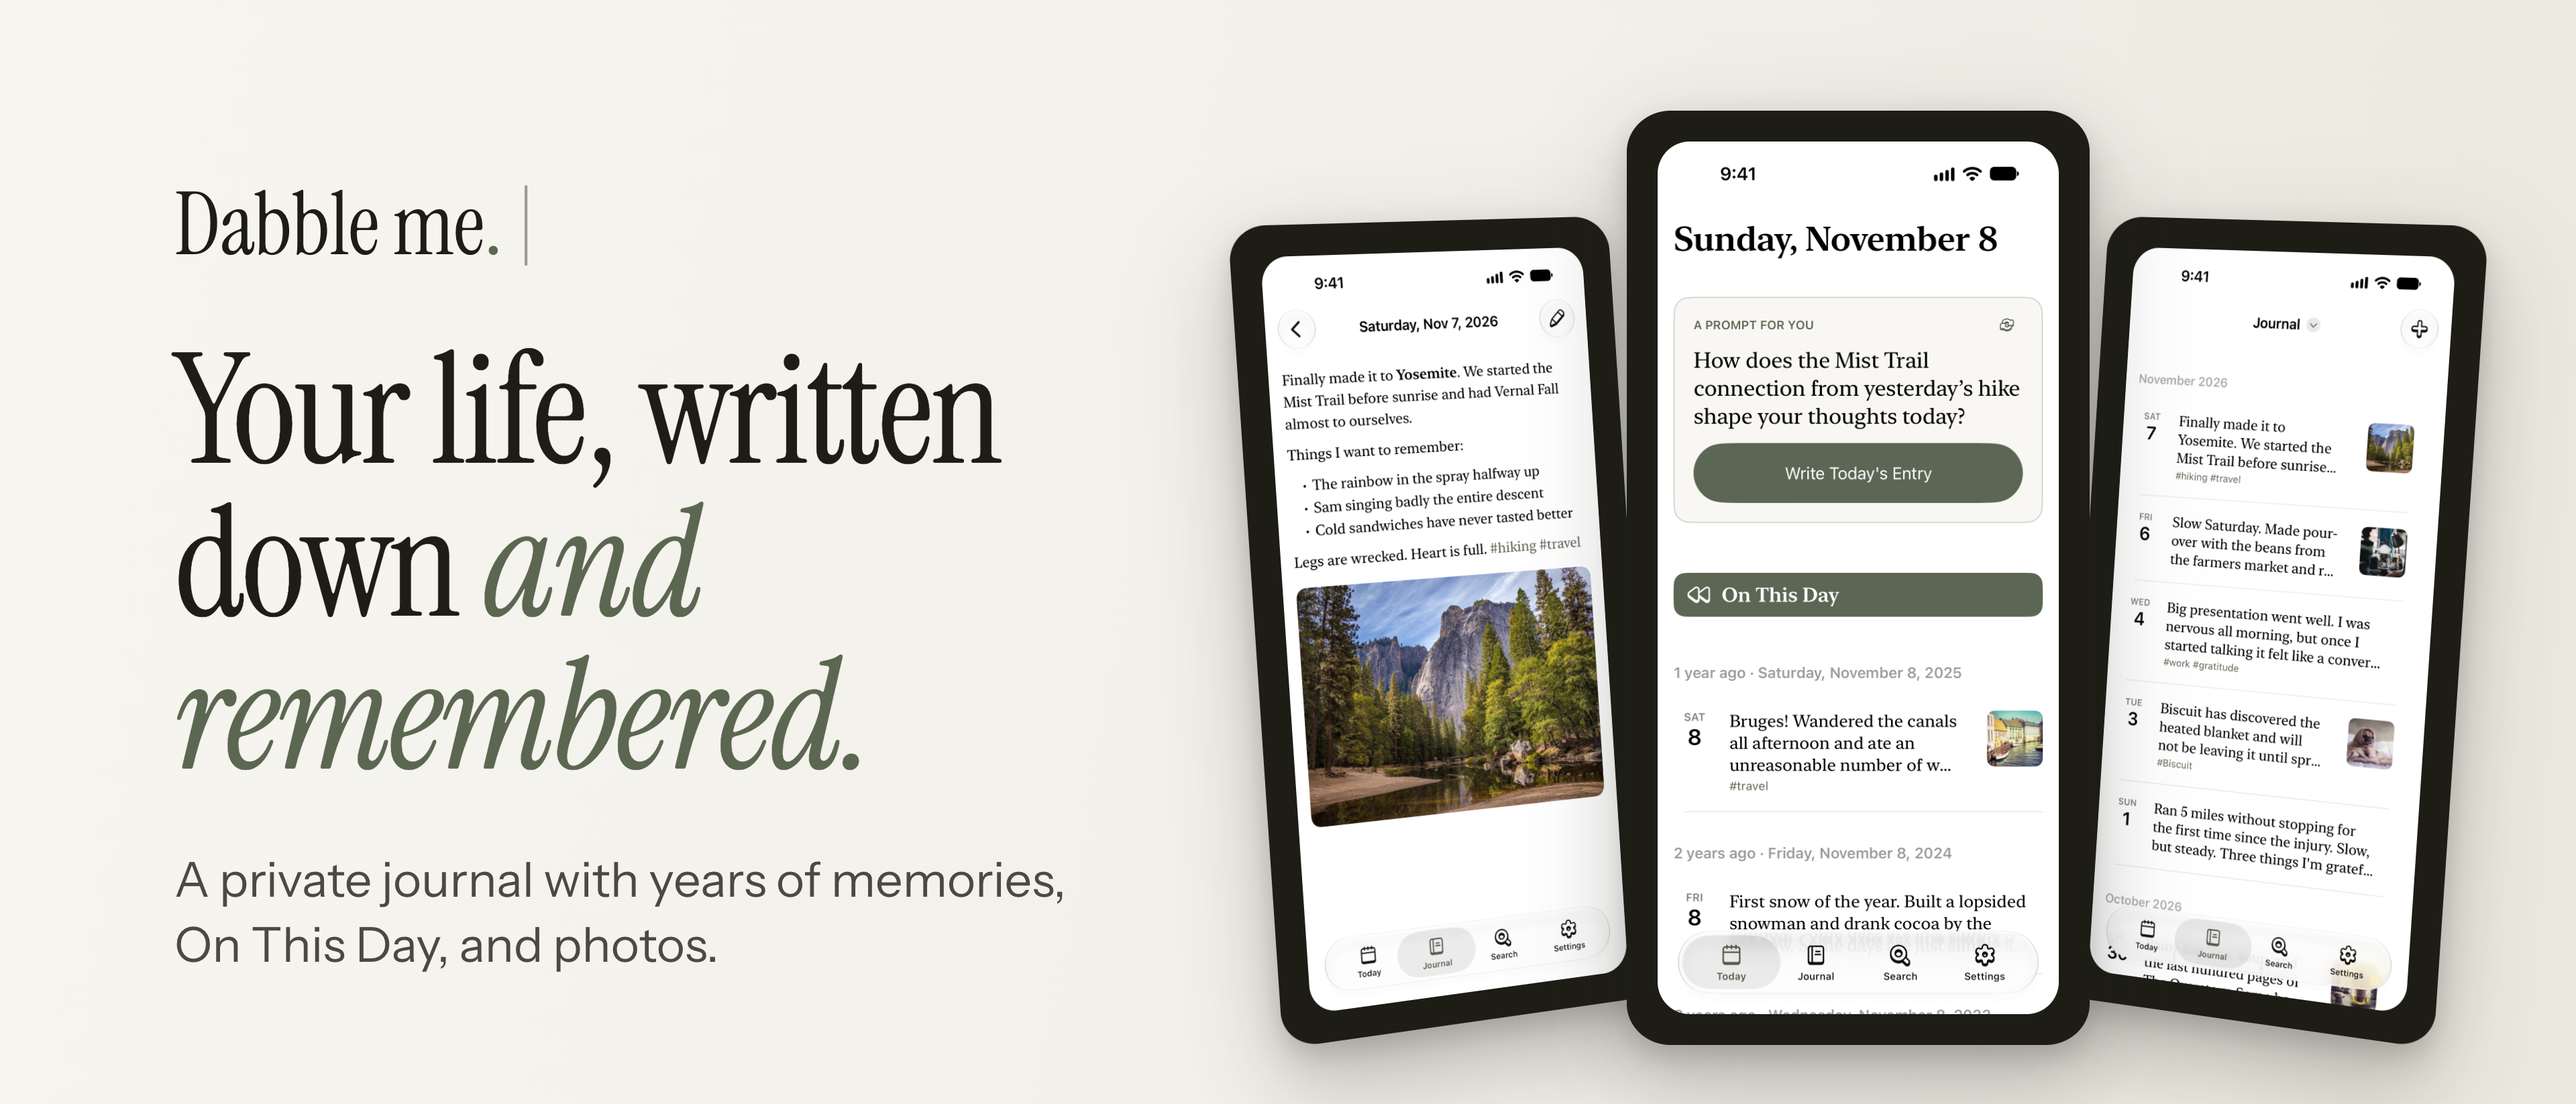
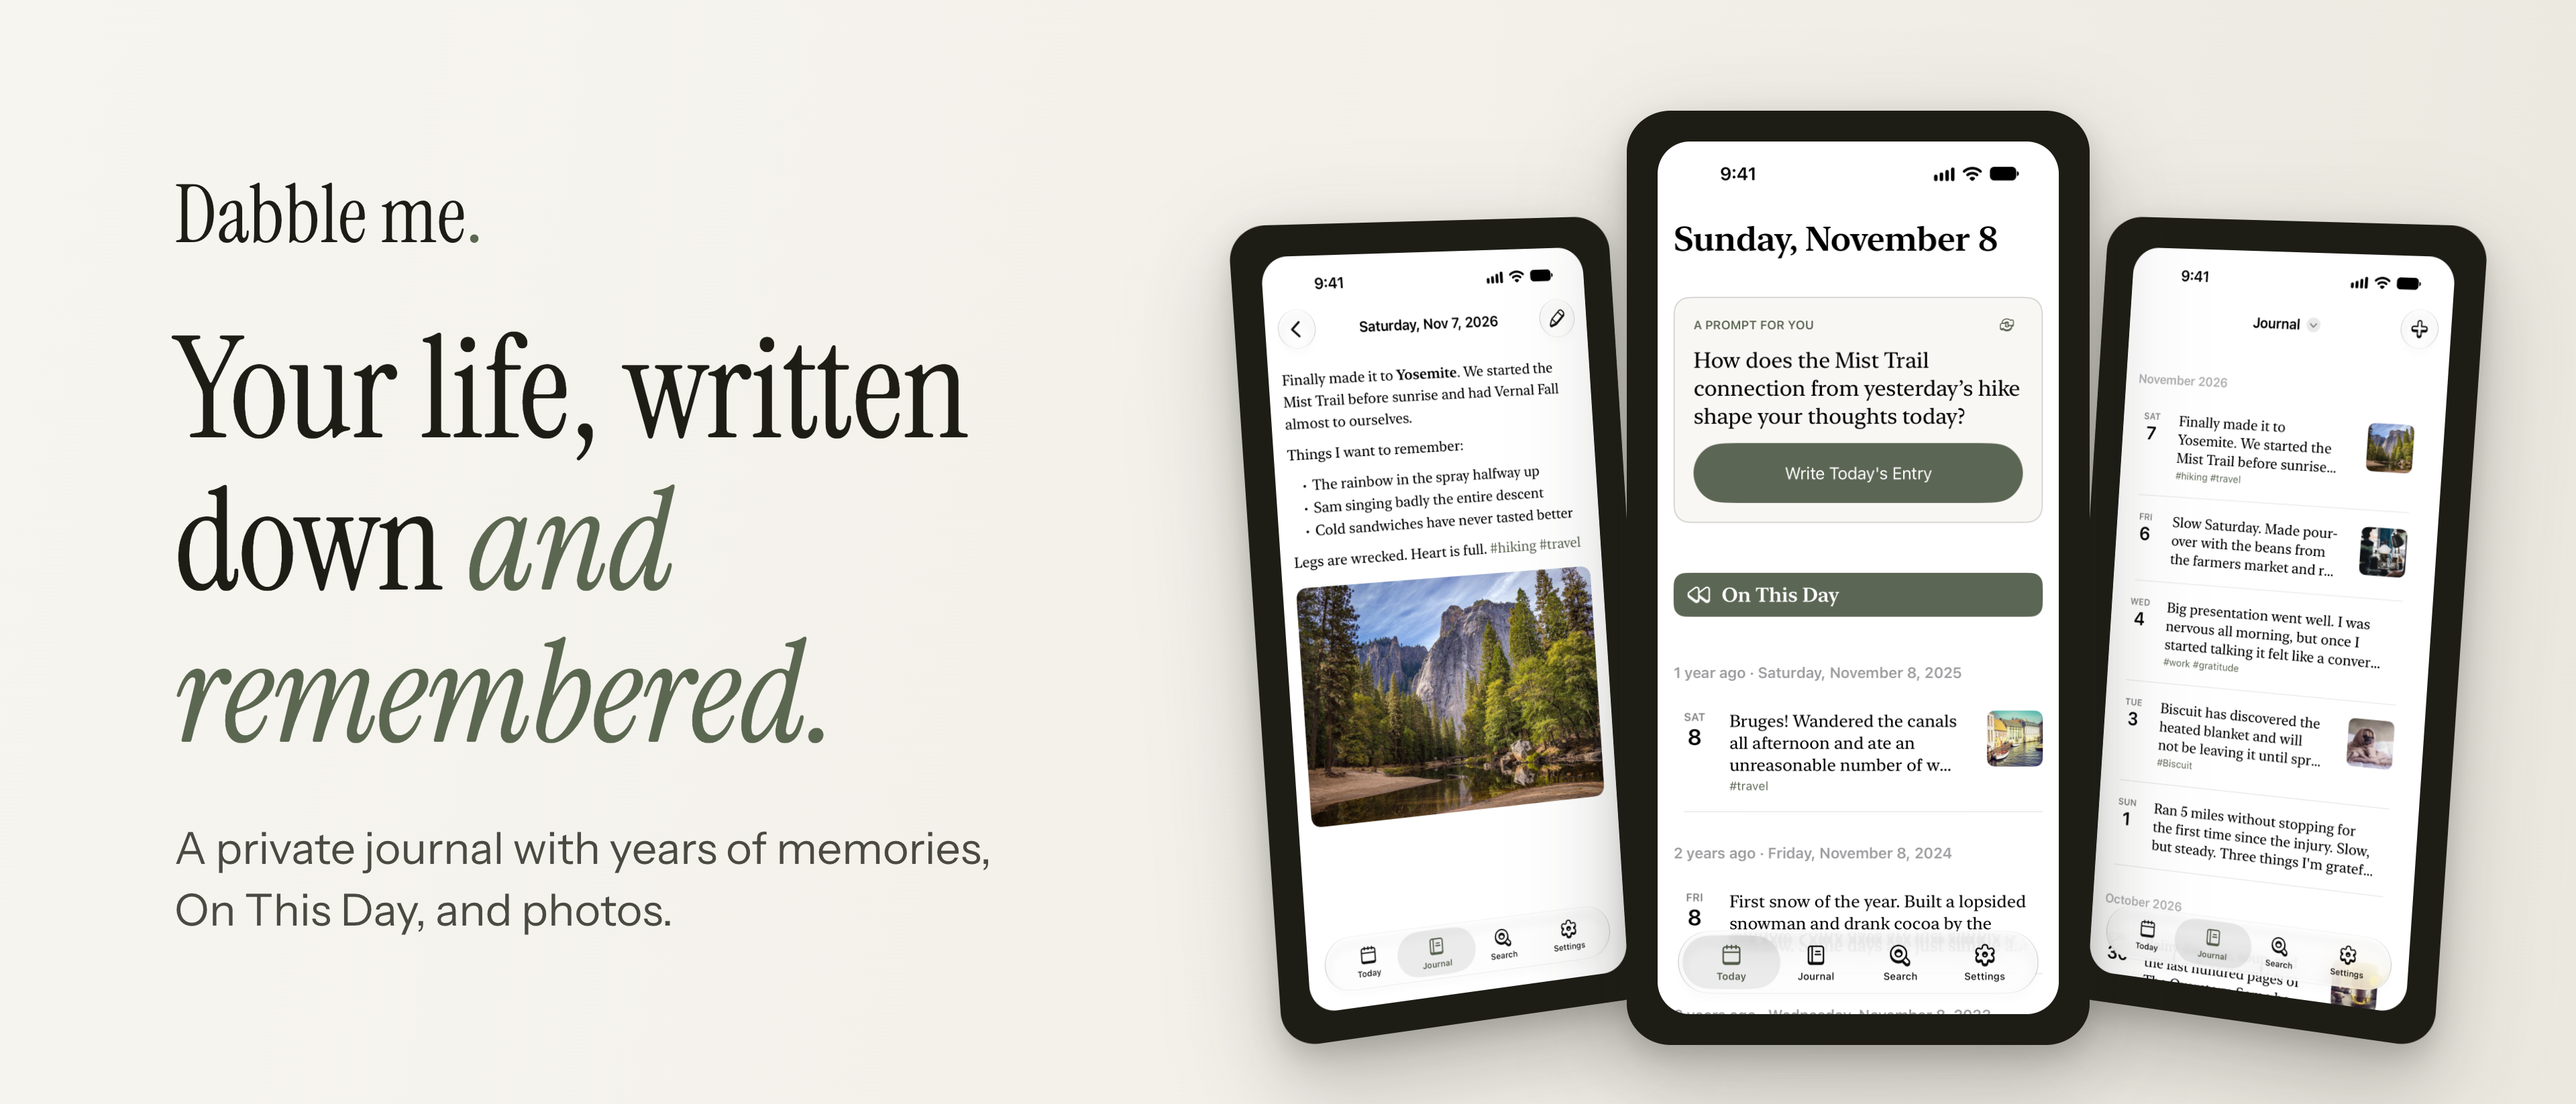
App Store header: no cursor in the wordmark, roomier type

diff --git a/ios/AppStore/Screenshots/Header and Search Results/source/header.html b/ios/AppStore/Screenshots/Header and Search Results/source/header.html
@@ -4,19 +4,19 @@
 <link rel="stylesheet" href="common.css">
 <style>
 body { width: 3840px; height: 1646px; background: linear-gradient(100deg, #f7f5f0 0%, #f2f0e9 55%, #ebe8df 100%); position: relative; }
-.copy { position: absolute; left: 260px; top: 250px; width: 1500px; }
-.wordmark { font-size: 130px; color: var(--ink); letter-spacing: -1px; }
+.copy { position: absolute; left: 260px; top: 0; height: 1646px; width: 1560px; display: flex; flex-direction: column; justify-content: center; }
+.wordmark { font-size: 120px; color: var(--ink); }
 .wordmark .dot { color: var(--olive); }
-h1 { font-size: 228px; line-height: 1.0; color: var(--ink); margin-top: 80px; letter-spacing: -3px; }
+h1 { font-size: 210px; line-height: 1.08; color: var(--ink); margin-top: 70px; }
 h1 em { color: var(--olive); font-style: italic; }
-p { font-size: 72px; line-height: 1.35; color: #4a4a42; margin-top: 80px; }
+p { font-size: 66px; line-height: 1.4; color: #4a4a42; margin-top: 70px; }
 .stage { position: absolute; right: 120px; top: 0; width: 1900px; height: 1646px; perspective: 5200px; }
 .phone.left  { width: 600px; left: 40px;  top: 330px; transform: rotateY(28deg) rotateZ(-4deg); }
 .phone.right { width: 600px; right: 40px; top: 330px; transform: rotateY(-28deg) rotateZ(4deg); }
 .phone.center{ width: 690px; left: 605px; top: 165px; z-index: 2; }
 </style></head><body>
 <div class="copy">
-  <div class="wordmark serif">Dabble me<span class="dot">.</span><span class="cursor">|</span></div>
+  <div class="wordmark serif">Dabble me<span class="dot">.</span></div>
   <h1 class="serif">Your life, written down <em>and remembered.</em></h1>
   <p class="sans">A private journal with years of memories, On&nbsp;This&nbsp;Day, and photos.</p>
 </div>

diff --git a/ios/AppStore/Screenshots/Header and Search Results/source/common.css b/ios/AppStore/Screenshots/Header and Search Results/source/common.css
@@ -6,4 +6,3 @@ body { -webkit-font-smoothing: antialiased; overflow: hidden; }
 .phone img { display: block; width: 100%; border-radius: 8% / 3.7%; }
 .serif { font-family: "Instrument Serif", Georgia, serif; font-weight: 400; }
 .sans { font-family: "Instrument Sans", system-ui, sans-serif; }
-.cursor { color: var(--subtle); padding-left: .15em; }
